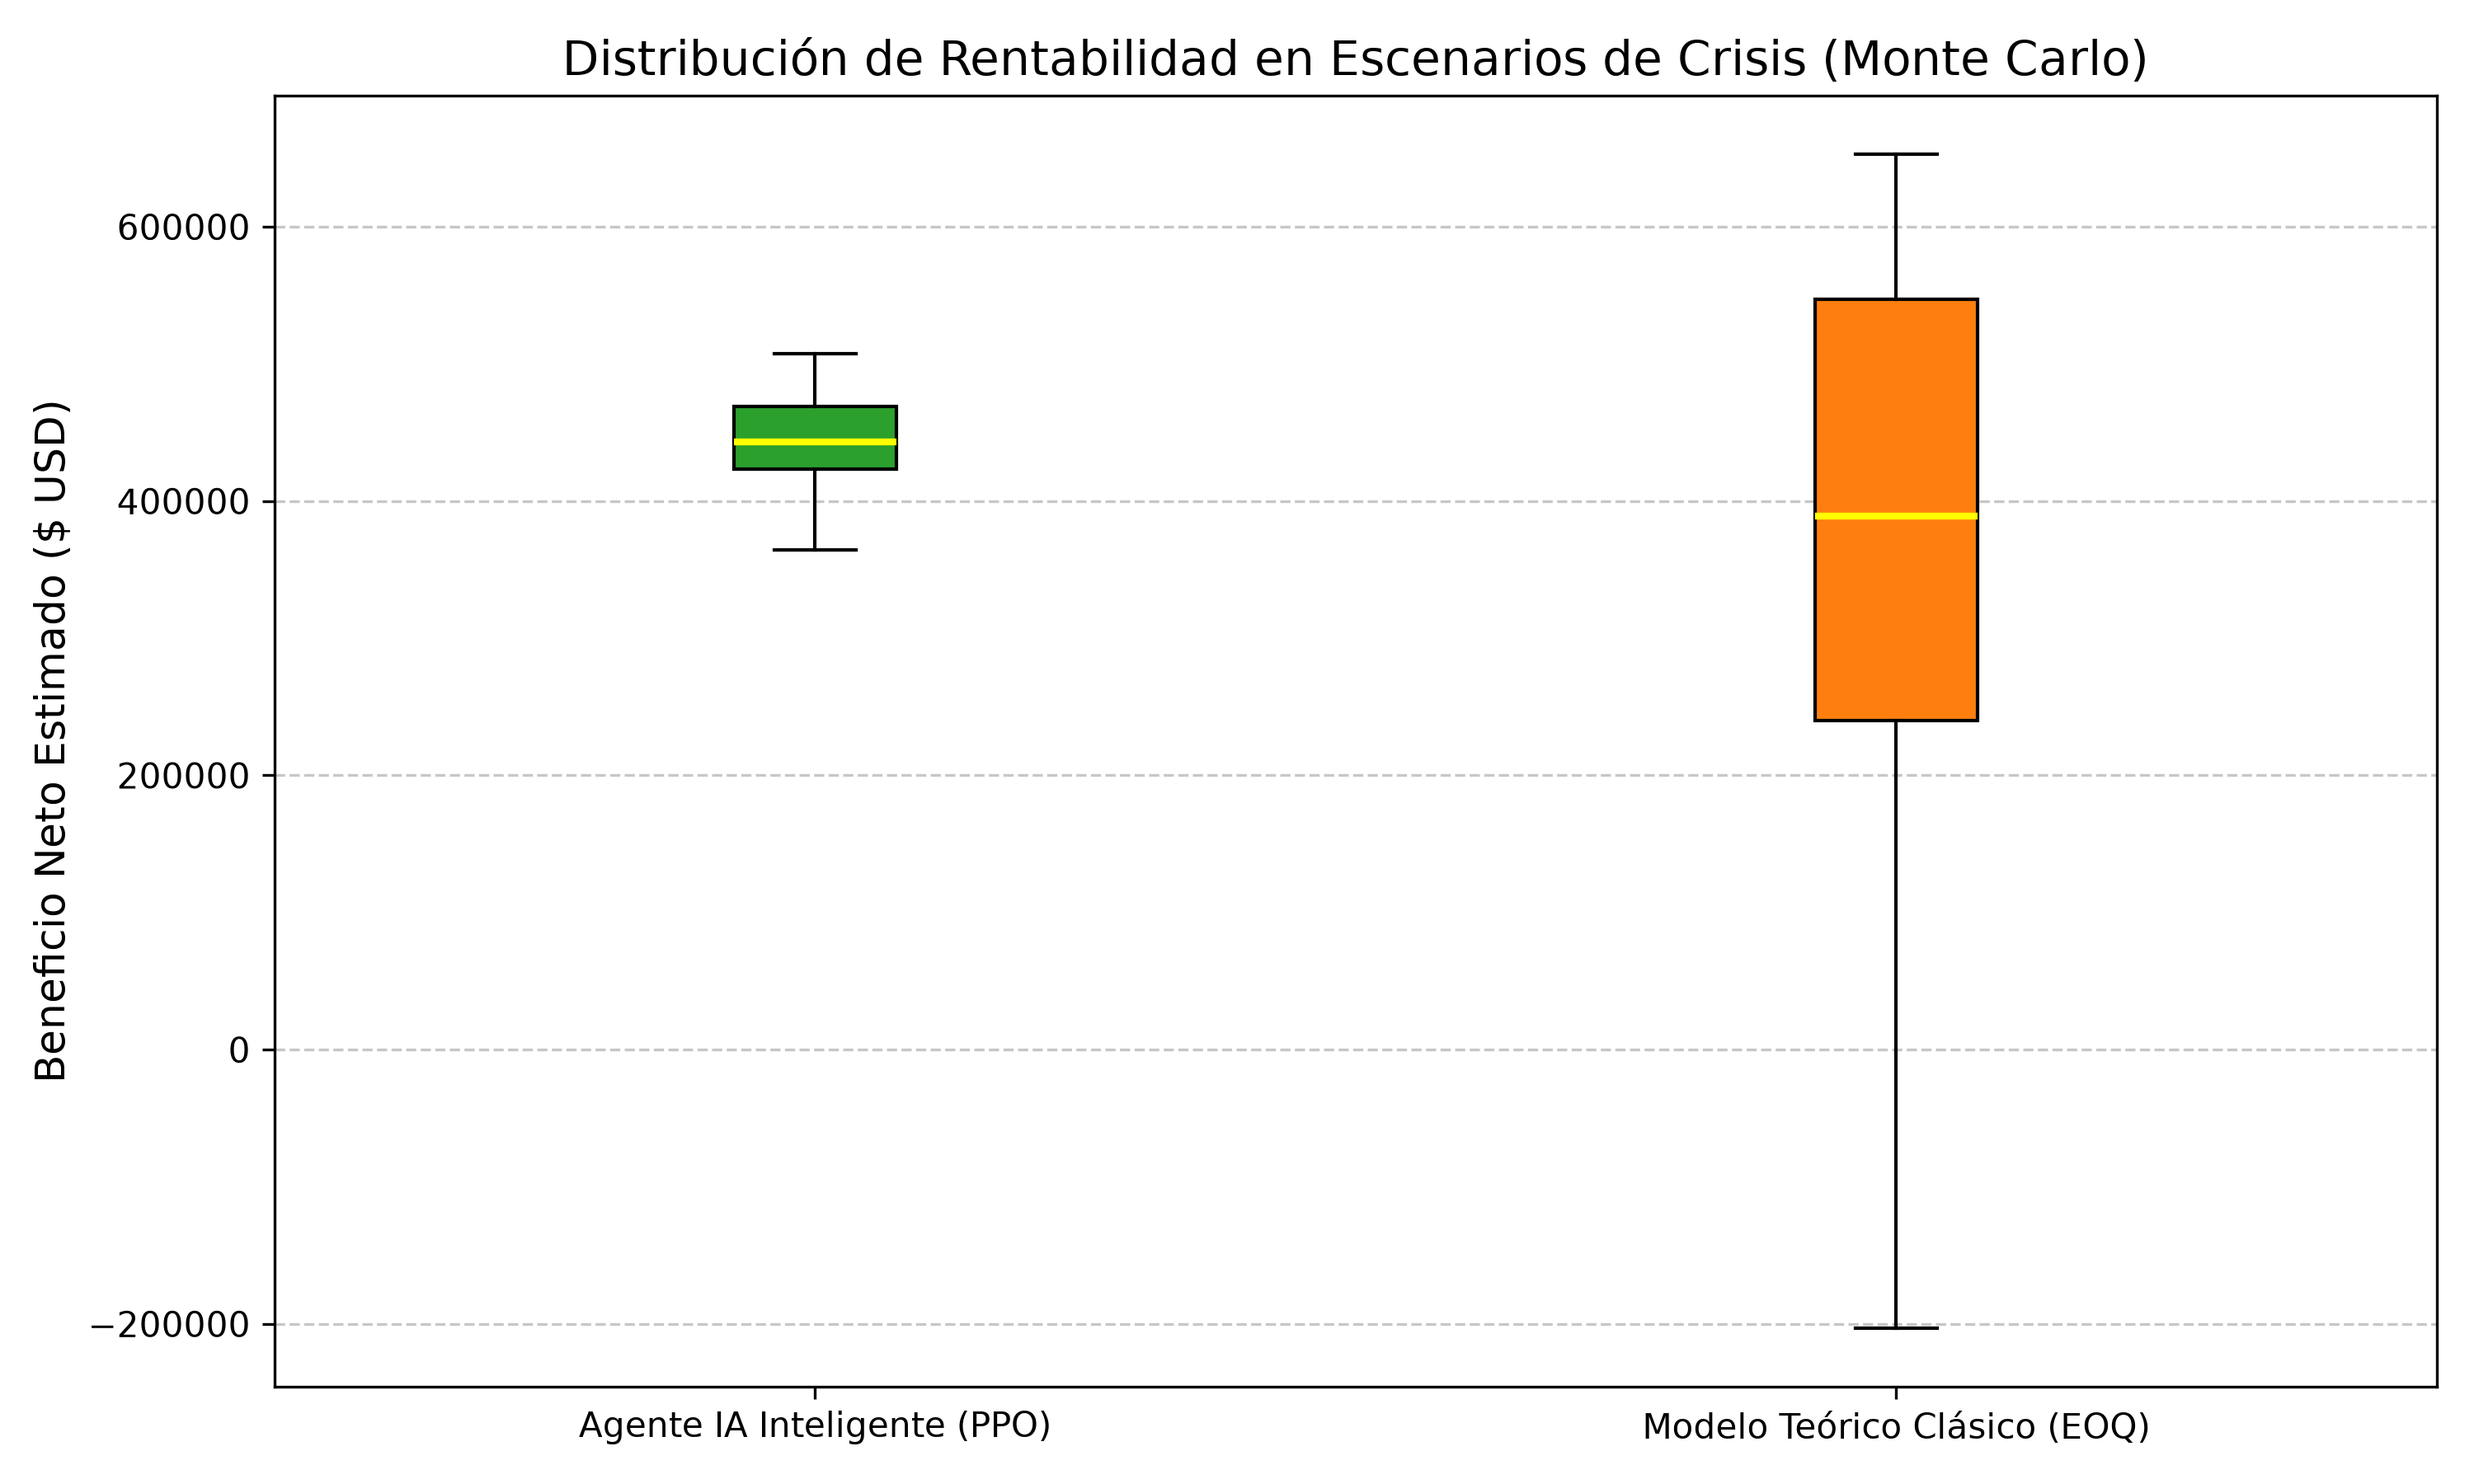
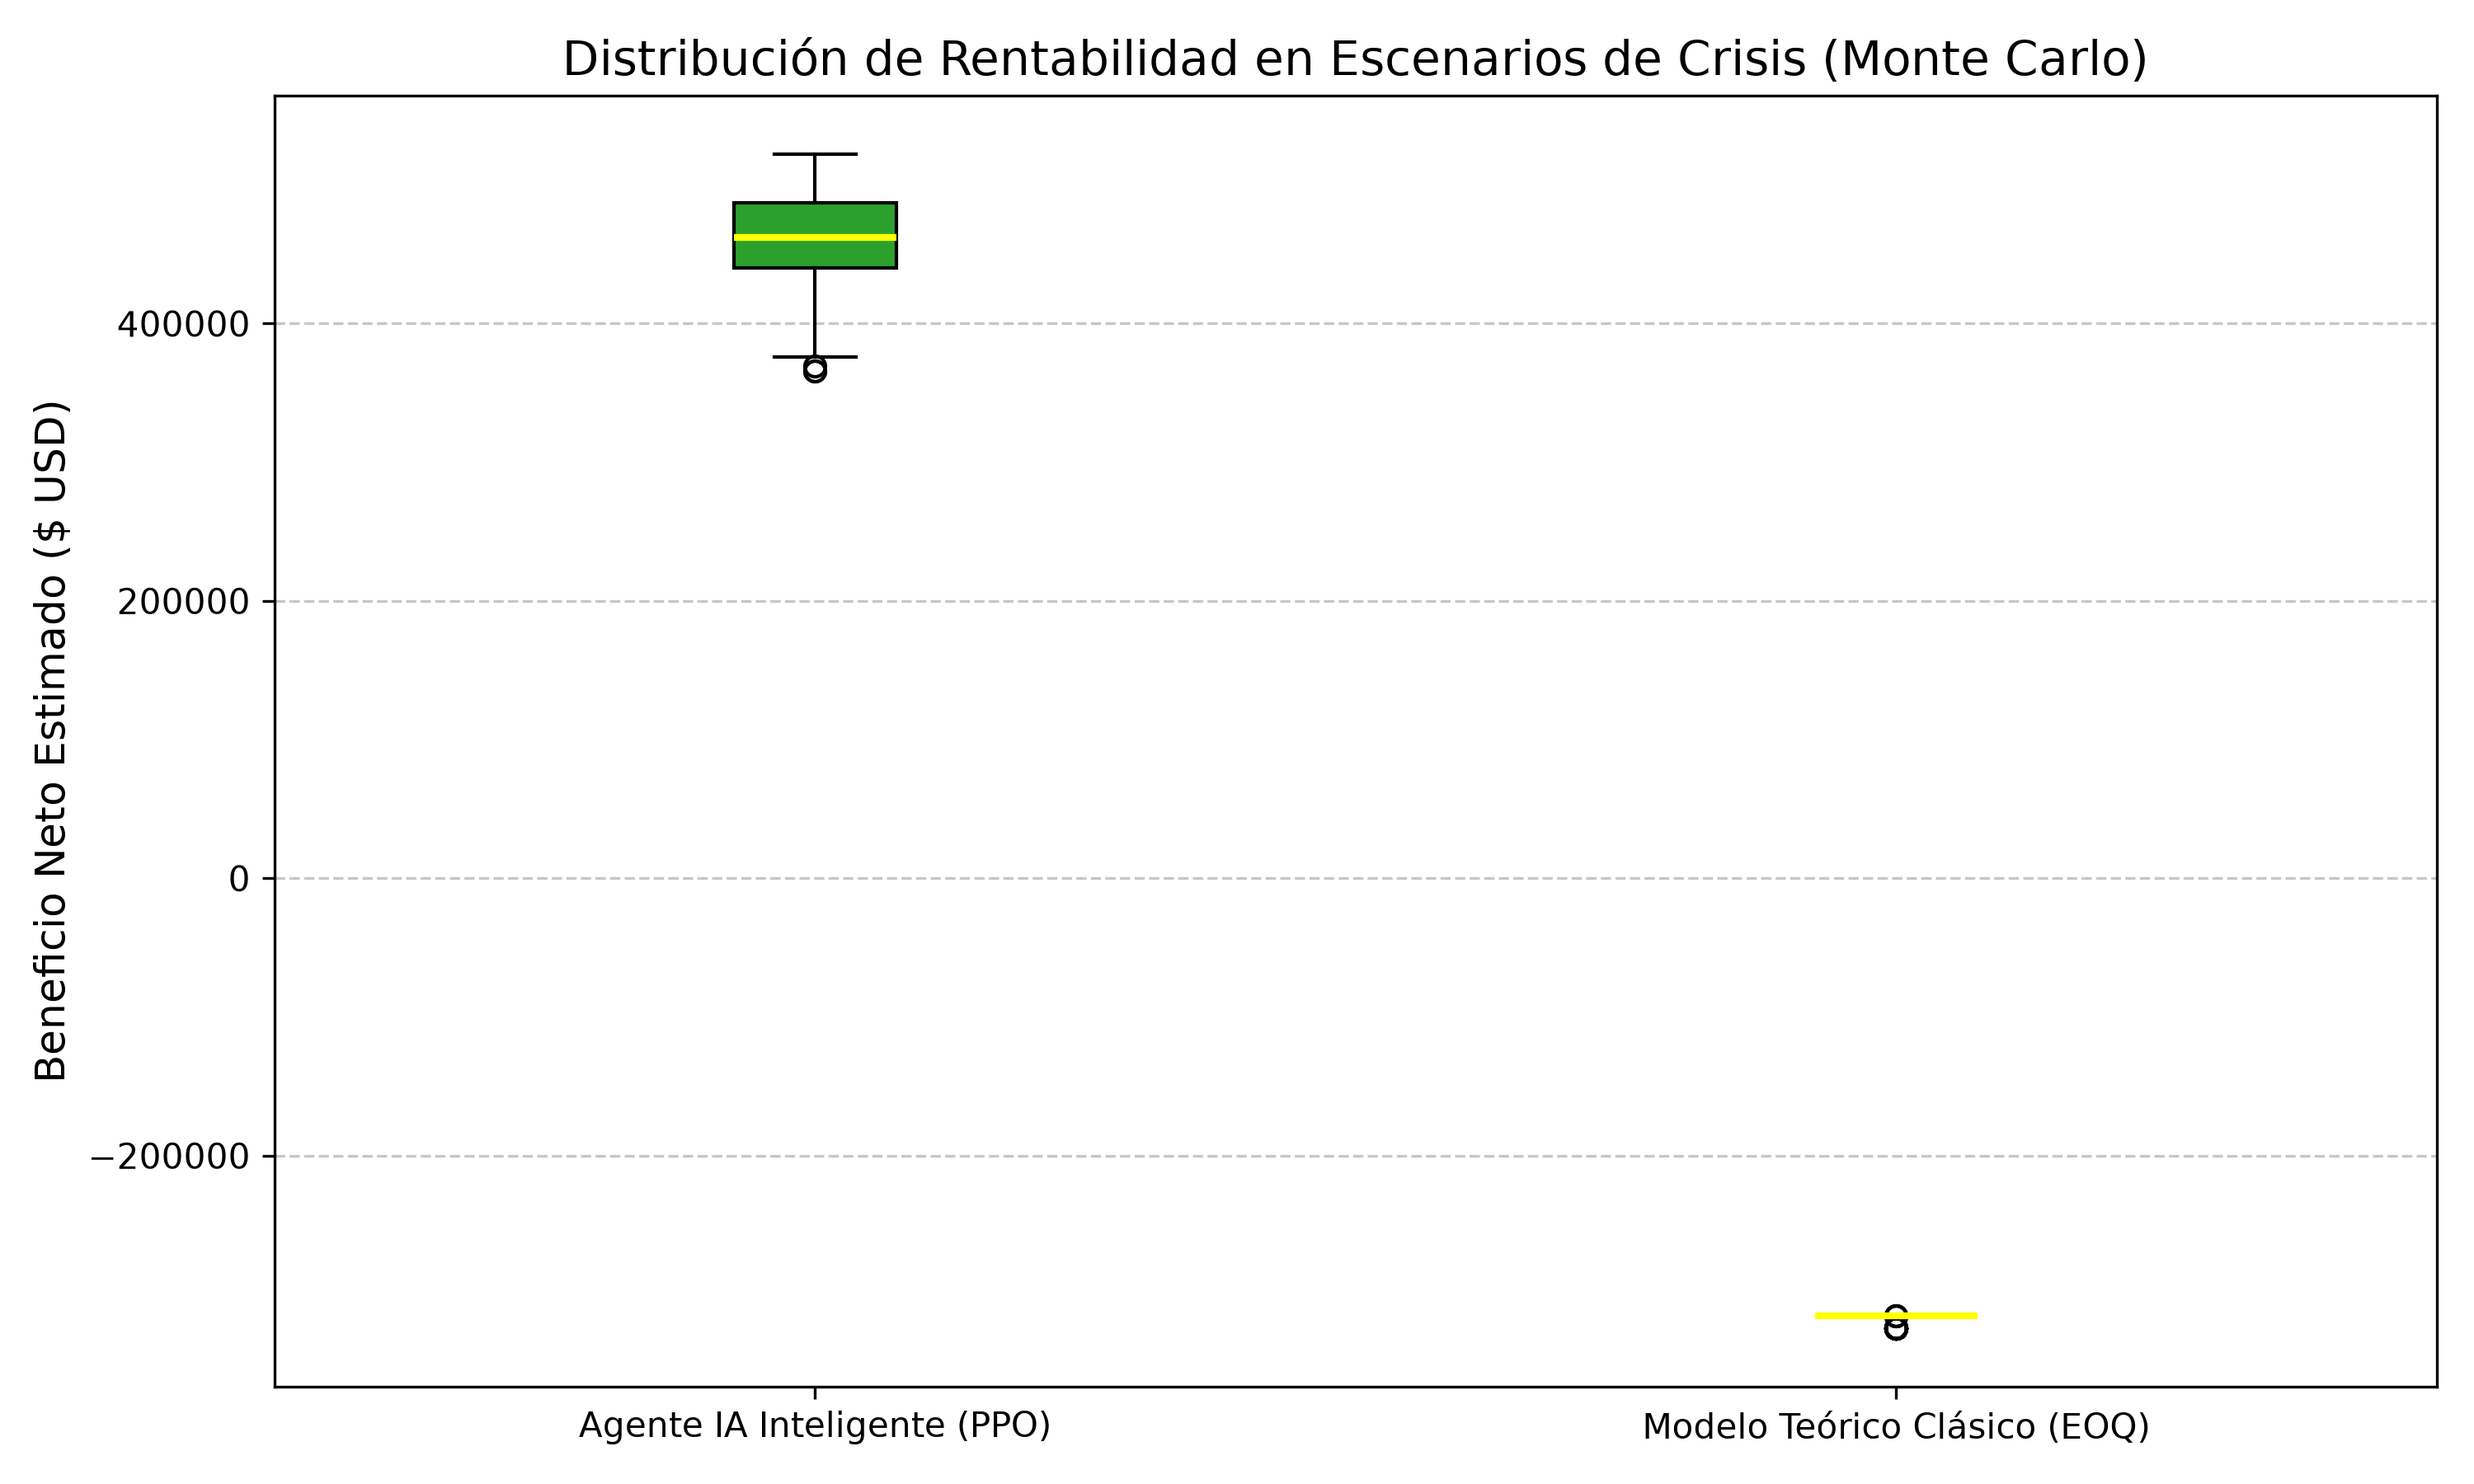
Update

diff --git a/03_scripts/s_01_functions.py b/03_scripts/s_01_functions.py
@@ -406,68 +406,57 @@ def plot_rel_function_03(
 # =========================================================================================================
 # 06. MODELO DE LA CANTIDAD ECONÓMICA DEL PEDIDO (BASELINE EOQ).
 
-def eoq_baseline(
+def eoq_rop_baseline(
     df_demanda_diaria: pl.DataFrame, 
-    df_param: pl.DataFrame, 
-    dias_year: int = 365 ) -> float:
+    precio_u_param: float,
+    pack_param: int,
+    costo_pedido_S: float = 50.0,
+    tasa_mantenimiento_i: float = 0.20,
+    dias_year: int = 365,
+    lead_time_dias: int = 10,        # Días que tarda el camión en llegar
+    nivel_confianza_z: float = 1.65  # Valor Z para 95% de nivel de servicio
+) -> tuple[int, int]:
     '''
-    Calcula la Cantidad Económica de Pedido (EOQ) ajustada a lotes (cajas) 
-    para establecer el modelo base (baseline) de la simulación.
-    
-    Parámetros:
-    - df_demanda_diaria (pl.DataFrame): DataFrame con la demanda histórica diaria.
-    - df_param (pl.DataFrame): DataFrame con el precio medio y el tamaño del pack.
-    - dias_year (int): Días base para la anualización.
-    - costo_pedido_S (float): Costo fijo por emitir una orden ($).
-    - tasa_mantenimiento_i (float): Porcentaje anual del valor del producto para costo de inventario.
-    
-    Retorna:
-    - float: Cantidad de productos a pedir sugerida por el modelo EOQ.
+    Calcula la Cantidad Económica de Pedido (EOQ) en lotes y el 
+    Punto de Reorden (ROP) estadístico para el modelo base (baseline).
     '''
     
-
-    # ____________________________________________________________________________________
-    # 1. Extraer parámetros relevantes
-
-    # Costo de realizar un pedido
-    costo_pedido_S = 50.0
-    # Tasa de costo de mantenimineto
-    tasa_mantenimiento_i= 0.20
-    # Demanda total del producto
-    demanda_total_periodo = df_demanda_diaria['demanda_diaria'].sum()
-    # Precio de venta (que genera ingresos)
-    precio_unitario_C = df_param['precio_medio'][0]
-    # Cantidad de botellas por pack
-    size_pack = df_param['pack'][0]
-    # Días totales del horizonte de datos
+    # ---------------------------------------------------------
+    # 1. CÁLCULO DEL EOQ (Cantidad a pedir)
+    # ---------------------------------------------------------
+    demanda_total_periodo = df_demanda_diaria['sales_bottles'].sum()
     dias_simulacion = df_demanda_diaria.height
 
-
-    # ____________________________________________________________________________________
-    # 2. Calcular los componentes del EOQ
-
-    # Demanda anual del producto (D)
     demanda_anual_D = (demanda_total_periodo / dias_simulacion) * dias_year
-
-    # Costo de mantener una unidad de producto en inventario (H)
-    costo_mantenimiento_H = precio_unitario_C * tasa_mantenimiento_i
-
-    # ____________________________________________________________________________________
-    # 3. Calcular el EOQ
+    costo_mantenimiento_H = precio_u_param * tasa_mantenimiento_i
 
     eoq_botellas = np.sqrt((2 * demanda_anual_D * costo_pedido_S) / costo_mantenimiento_H)
+    eoq_packs = int(np.ceil(eoq_botellas / pack_param))
 
-    eoq_packs = np.ceil(eoq_botellas / size_pack)
+    # ---------------------------------------------------------
+    # 2. CÁLCULO DEL ROP (Punto de Reorden con Stock de Seguridad)
+    # ---------------------------------------------------------
+    demanda_diaria_promedio = df_demanda_diaria['sales_bottles'].mean()
+    desviacion_diaria = df_demanda_diaria['sales_bottles'].std()
 
-    # 5. Imprimir resultados formateados
+    # Stock de Seguridad = Z * Desviación_Estándar * sqrt(Lead_Time)
+    stock_seguridad = nivel_confianza_z * desviacion_diaria * np.sqrt(lead_time_dias)
+    
+    # ROP = (Demanda Diaria * Lead Time) + Stock de Seguridad
+    rop_botellas = (demanda_diaria_promedio * lead_time_dias) + stock_seguridad
+    rop_botellas_redondeado = int(np.ceil(rop_botellas))
+
+    # ---------------------------------------------------------
+    # 3. CONSOLA Y RETORNO
+    # ---------------------------------------------------------
     print('-' * 62)
-    print('RESULTADOS DEL MODELO BASE (EOQ)')
+    print('RESULTADOS DEL MODELO TEÓRICO (EOQ + ROP)')
     print('-' * 62)
-    print(f'Demanda Anual Estimada (D)       : {demanda_anual_D:,.0f} botellas')
-    print(f'Costo de Mantenimiento Anual (H) : $ {costo_mantenimiento_H:,.2f} por botella')
-    print(f'Costo Fijo por Pedido (S)        : $ {costo_pedido_S:,.2f}')
-    print(f'EOQ Óptimo Teórico               : {eoq_botellas:,.0f} botellas')
-    print(f'EOQ Ajustado a "packs"           : {eoq_packs:,.0f} packs (de {size_pack} botellas) ')
+    print(f'EOQ Ajustado a Lotes (Q*) : {eoq_packs:,.0f} packs')
+    print(f'Punto de Reorden (ROP)    : {rop_botellas_redondeado:,.0f} botellas')
+    print(f'  ↳ Demanda durante viaje : {(demanda_diaria_promedio * lead_time_dias):,.0f} botellas')
+    print(f'  ↳ Stock de Seguridad    : {stock_seguridad:,.0f} botellas')
     print('-' * 62)
     
-    return eoq_packs
+    # Devuelve la tupla con ambos valores
+    return eoq_packs, rop_botellas_redondeado

diff --git a/03_scripts/s_02_stock_env.py b/03_scripts/s_02_stock_env.py
@@ -76,8 +76,7 @@ class EntornoInventario(gym.Env):
         estado_inicial = np.concatenate((
             [self.inventario], 
             self.historial_demanda, 
-            [self.dia_semana[self.dia_actual]]
-            )).astype(np.float32)
+            [self.dia_semana[self.dia_actual]] )).astype(np.float32)
         
         return estado_inicial, {}
     
